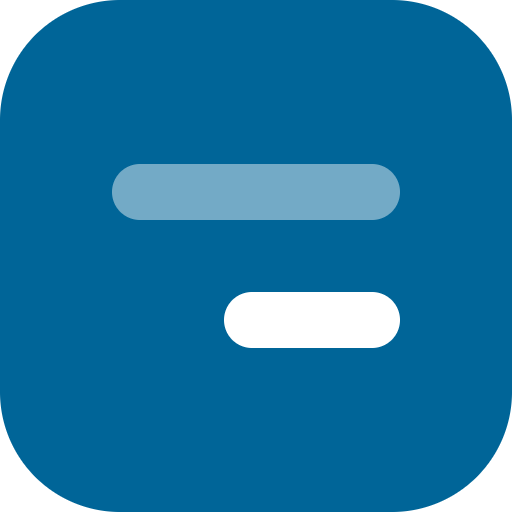
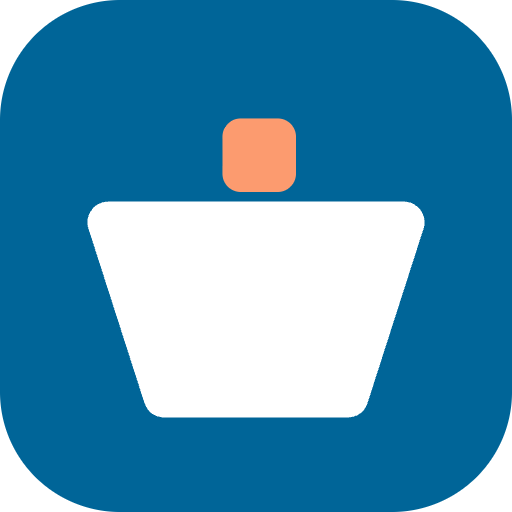
feat(web): a basket mark instead of two bars, and a one-word wordmark
The old mark was two bars, which said "comparison" but said it so plainly that it
read as a placeholder. Generated abstract concepts with Recraft (via Higgsfield,
model_type vector, which returns real SVG rather than raster) and rebuilt the
chosen one by hand.

The mark is now a shopping basket with one item dropping into it. Two things had
to be designed against, both found by rendering candidates at 16/20/32px instead
of judging them large:

* No handle. An arc over a rounded body reads as a padlock at every size, and two
  of the first four variants died on exactly that.
* The body flares outward at the rim. A plain downward taper reads as a waste bin.

The item is drawn before the basket so the rim occludes it: going in, not sitting
in front. Hand-authoring it also cut 1.9KB of model bezier approximations down to
a few hundred bytes of exact geometry, which is why it survives 16px where the
generated paths mushed together below about 24px.

The wordmark is one word, SuperMCP, in Gabarito 700, used nowhere else on the
site. Secular One was doing double duty as Hebrew display type and as the Latin
wordmark, and its Latin is unremarkable, so the name looked like bolded body
text. MCP keeps its capitals: it is an acronym, and lowercasing it drops the only
part of the name that says what this connects to.

Both changes propagate to the favicon, the 192/512 icons, the apple touch icon
(square-cornered and inset, since iOS masks it) and the social card.
[…]

Changed region(s): [[0.1562, 0.2188, 0.8438, 0.8438]]

diff --git a/apps/web/src/components/shared/Logo.tsx b/apps/web/src/components/shared/Logo.tsx
@@ -1,27 +1,34 @@
 import { he } from "@/content/he";
 
 /**
- * The Super MCP lockup: mark plus wordmark.
+ * The SuperMCP lockup: mark plus wordmark.
  *
- * The mark is the same product idea as the ledger section, drawn twice: a long
- * faint bar for what the nearer shop charges, a short solid bar for the answer.
- * Right-aligned because the product is Hebrew RTL.
+ * The wordmark is one word, set in Gabarito, which appears nowhere else on the
+ * page. Two words in the same face as the Hebrew headings read as bolded body
+ * text rather than as a name. MCP keeps its capitals: it is an acronym, and
+ * lowercasing it would lose the only part of the name that says what this
+ * connects to.
  *
- * Geometry is mirrored in public/favicon.svg. Keep the two in step.
+ * The mark is a shopping basket with one item dropping into it, rebuilt by hand
+ * from a Recraft concept. Geometry is mirrored in public/favicon.svg and in
+ * brand/og.html. Keep them in step.
  */
 export function Logo() {
   return (
     <span className="inline-flex items-center gap-2.5">
-      <svg
-        viewBox="0 0 32 32"
-        aria-hidden
-        className="size-7 shrink-0"
-      >
+      <svg viewBox="0 0 32 32" aria-hidden className="size-7 shrink-0">
         <rect width="32" height="32" rx="7.5" fill="var(--color-accent)" />
-        <rect x="7" y="10.25" width="18" height="3.5" rx="1.75" fill="#fff" opacity=".45" />
-        <rect x="14" y="18.25" width="11" height="3.5" rx="1.75" fill="#fff" />
+        {/* Item first, basket second: the rim occludes it, so it reads as going in. */}
+        <rect x="13.9" y="7.4" width="4.6" height="4.6" rx="1.15" fill="var(--color-over-band)" />
+        <path
+          d="M6.8 12.6 H25.2 A1.3 1.3 0 0 1 26.5 14.2 L23 25.1 Q22.7 26.1 21.6 26.1 H10.4 Q9.3 26.1 9 25.1 L5.5 14.2 A1.3 1.3 0 0 1 6.8 12.6 Z"
+          fill="#fff"
+        />
       </svg>
-      <span dir="ltr" className="display text-lg text-[var(--color-ink)]">
+      <span
+        dir="ltr"
+        className="font-[family-name:var(--font-wordmark)] text-[1.2rem] font-bold leading-none tracking-[-0.035em] text-[var(--color-ink)]"
+      >
         {he.header.brand}
       </span>
     </span>

diff --git a/apps/web/src/content/he.ts b/apps/web/src/content/he.ts
@@ -32,13 +32,13 @@ const assistants = ["Claude", "ChatGPT", "Gemini", "Cursor"] as const;
 
 export const he = {
   meta: {
-    title: "Super MCP | אותם מוצרים, מחיר אחר בכל חנות",
+    title: "SuperMCP | אותם מוצרים, מחיר אחר בכל חנות",
     description:
       "כותבים רשימת קניות בעברית לקלוד או ל־ChatGPT, ומקבלים תשובה ברורה: באיזו חנות לידכם הקנייה הזאת הכי זולה, כמה כל פריט עולה, ומה שאין בחנות מסומן. המחירים מגיעים מהמחירונים הרשמיים של 10 רשתות בישראל.",
   },
 
   header: {
-    brand: "Super MCP",
+    brand: "SuperMCP",
     nav: [
       { href: "#ledger", label: "ההשוואה" },
       { href: "#coverage", label: "המחירים" },
@@ -203,7 +203,7 @@ export const he = {
      */
     dev: {
       summary: "למפתחים: MCP, REST והרצה עצמאית",
-      body: "Super MCP הוא שרת MCP מרוחק. מדביקים את הבלוק לקובץ ההגדרות, מחליפים את המפתח, והכלים זמינים. אותה שכבה חשופה גם כ־REST, והפרויקט פתוח.",
+      body: "SuperMCP הוא שרת MCP מרוחק. מדביקים את הבלוק לקובץ ההגדרות, מחליפים את המפתח, והכלים זמינים. אותה שכבה חשופה גם כ־REST, והפרויקט פתוח.",
       jsonLabel: "mcp.json",
       urlLabel: "כתובת השרת",
       copyJson: "העתקת JSON",
@@ -275,7 +275,7 @@ export const he = {
   },
 
   footer: {
-    note: "Super MCP · השוואת מחירי סופר לעוזרי AI",
+    note: "SuperMCP · השוואת מחירי סופר לעוזרי AI",
     disclosure: "כל מחיר נושא את המועד שבו נראה לאחרונה במחירון הרשת. מה שלא תומחר מסומן כחסר.",
     links: [
       { href: "https://github.com/nitaiaharoni1/super-mcp/blob/main/DATA.md", label: "מאיפה המחירים" },

diff --git a/apps/web/brand/og.html b/apps/web/brand/og.html
@@ -4,7 +4,7 @@
 <meta charset="utf-8">
 <link rel="preconnect" href="https://fonts.googleapis.com">
 <link rel="preconnect" href="https://fonts.gstatic.com" crossorigin>
-<link href="https://fonts.googleapis.com/css2?family=Secular+One&family=Heebo:wght@400;500;600&family=Geist+Mono:wght@400;500&display=swap" rel="stylesheet">
+<link href="https://fonts.googleapis.com/css2?family=Secular+One&family=Heebo:wght@400;500;600&family=Geist+Mono:wght@400;500&family=Gabarito:wght@600;700&display=swap" rel="stylesheet">
 <style>
   :root {
     --band: #00355a;
@@ -39,9 +39,10 @@
   .lockup { display: flex; align-items: center; gap: 14px; }
   .wordmark {
     direction: ltr;
-    font-family: "Secular One", sans-serif;
-    font-size: 30px;
-    letter-spacing: -0.02em;
+    font-family: "Gabarito", sans-serif;
+    font-weight: 700;
+    font-size: 33px;
+    letter-spacing: -0.035em;
   }
   h1 {
     font-family: "Secular One", sans-serif;
@@ -103,10 +104,10 @@
            reads here and stays identical to the favicon. -->
       <svg width="40" height="40" viewBox="0 0 32 32" aria-hidden="true">
         <rect width="32" height="32" rx="7.5" fill="#006598"/>
-        <rect x="7" y="10.25" width="18" height="3.5" rx="1.75" fill="#fff" opacity=".45"/>
-        <rect x="14" y="18.25" width="11" height="3.5" rx="1.75" fill="#fff"/>
+        <rect x="13.9" y="7.4" width="4.6" height="4.6" rx="1.15" fill="#FC9B6F"/>
+        <path d="M6.8 12.6 H25.2 A1.3 1.3 0 0 1 26.5 14.2 L23 25.1 Q22.7 26.1 21.6 26.1 H10.4 Q9.3 26.1 9 25.1 L5.5 14.2 A1.3 1.3 0 0 1 6.8 12.6 Z" fill="#fff"/>
       </svg>
-      <span class="wordmark">Super MCP</span>
+      <span class="wordmark">SuperMCP</span>
     </div>
 
     <h1>

diff --git a/apps/web/src/app/layout.tsx b/apps/web/src/app/layout.tsx
@@ -1,5 +1,5 @@
 import type { Metadata } from "next";
-import { Geist_Mono, Heebo, Secular_One } from "next/font/google";
+import { Gabarito, Geist_Mono, Heebo, Secular_One } from "next/font/google";
 
 import { he } from "@/content/he";
 import { getSiteUrl } from "@/lib/mcp";
@@ -22,6 +22,21 @@ const heebo = Heebo({
 const geistMono = Geist_Mono({
   subsets: ["latin"],
   variable: "--font-geist-mono",
+  display: "swap",
+});
+
+/*
+ * The wordmark gets its own face, used nowhere else on the page.
+ *
+ * Secular One was doing double duty as Hebrew display type and as the Latin
+ * wordmark, and its Latin is unremarkable, so "Super MCP" looked like body text
+ * in bold. Gabarito is a geometric grotesk with enough personality to read as a
+ * logo at one weight and one size.
+ */
+const gabarito = Gabarito({
+  weight: ["600", "700"],
+  subsets: ["latin"],
+  variable: "--font-wordmark",
   display: "swap",
 });
 
@@ -56,7 +71,7 @@ export const metadata: Metadata = {
         url: "/og.png",
         width: 1200,
         height: 630,
-        alt: "Super MCP: אותו מוצר, שני מחירים, ואנחנו אומרים איזה",
+        alt: "SuperMCP: אותו מוצר, שני מחירים, ואנחנו אומרים איזה",
       },
     ],
   },
@@ -73,7 +88,7 @@ export default function RootLayout({ children }: { children: React.ReactNode }) 
     <html
       lang="he"
       dir="rtl"
-      className={`${secular.variable} ${heebo.variable} ${geistMono.variable}`}
+      className={`${secular.variable} ${heebo.variable} ${geistMono.variable} ${gabarito.variable}`}
     >
       <body className="min-h-[100dvh] antialiased">{children}</body>
     </html>

diff --git a/apps/web/src/app/globals.css b/apps/web/src/app/globals.css
@@ -59,6 +59,8 @@
   --font-sans: var(--font-heebo), ui-sans-serif, system-ui, sans-serif;
   --font-display: var(--font-secular), var(--font-heebo), ui-sans-serif, system-ui, sans-serif;
   --font-mono: var(--font-geist-mono), ui-monospace, monospace;
+  /* Wordmark only. Never body copy, never headings. */
+  --font-wordmark: var(--font-gabarito), ui-sans-serif, system-ui, sans-serif;
 }
 
 /*

diff --git a/apps/web/next-env.d.ts b/apps/web/next-env.d.ts
@@ -1,6 +1,6 @@
 /// <reference types="next" />
 /// <reference types="next/image-types/global" />
-/// <reference path="./.next/types/routes.d.ts" />
+/// <reference path="./.next-check/types/routes.d.ts" />
 
 // NOTE: This file should not be edited
 // see https://nextjs.org/docs/app/api-reference/config/typescript for more information.

diff --git a/apps/web/brand/README.md b/apps/web/brand/README.md
@@ -10,16 +10,33 @@ generated and committed, so the site build never depends on regenerating them.
 
 ## The mark
 
-Two right-aligned bars: a long faint one for what the nearer shop charges, a
-short solid one for the answer. Right-aligned because the product is Hebrew RTL.
-It is the same idea as the ledger section of the landing page, and unlike a
-letterform it still reads at 16px.
+A shopping basket with one item dropping into it. The concept came from Recraft
+(via Higgsfield, `model_type: vector`), then was rebuilt by hand: the model's own
+output was 1.9KB of bezier approximations whose details mushed together below
+about 24px, and this is the same idea in exact geometry at a fraction of the size.
 
-Geometry is duplicated in `../public/favicon.svg` and
-`../src/components/shared/Logo.tsx`. Change both together.
+Two constraints, both found by rendering candidates at real sizes rather than by
+eye:
 
-Colours are literal hex, not the `oklch` design tokens: favicon renderers are
-not full browsers. `#006598` is `--color-accent`.
+- **No handle.** An arc over a rounded body reads as a padlock at every size.
+  Two of the first four variants had to be thrown out for this.
+- **The body flares outward at the rim.** A plain downward taper reads as a
+  waste bin.
+
+The item is drawn *before* the basket so the rim occludes it: it is going in, not
+sitting in front of it.
+
+Geometry is duplicated in `../public/favicon.svg`,
+`../src/components/shared/Logo.tsx` and `og.html`. Change all three together.
+
+Colours are literal hex, not the `oklch` design tokens: favicon renderers are not
+full browsers. `#006598` is `--color-accent`, `#FC9B6F` is `--color-over-band`.
+
+## The wordmark
+
+One word, `SuperMCP`, set in Gabarito at 700 and used nowhere else on the site.
+MCP keeps its capitals because it is an acronym and lowercasing it loses the only
+part of the name that says what this connects to.
 
 ## Regenerating `og.png`
 
